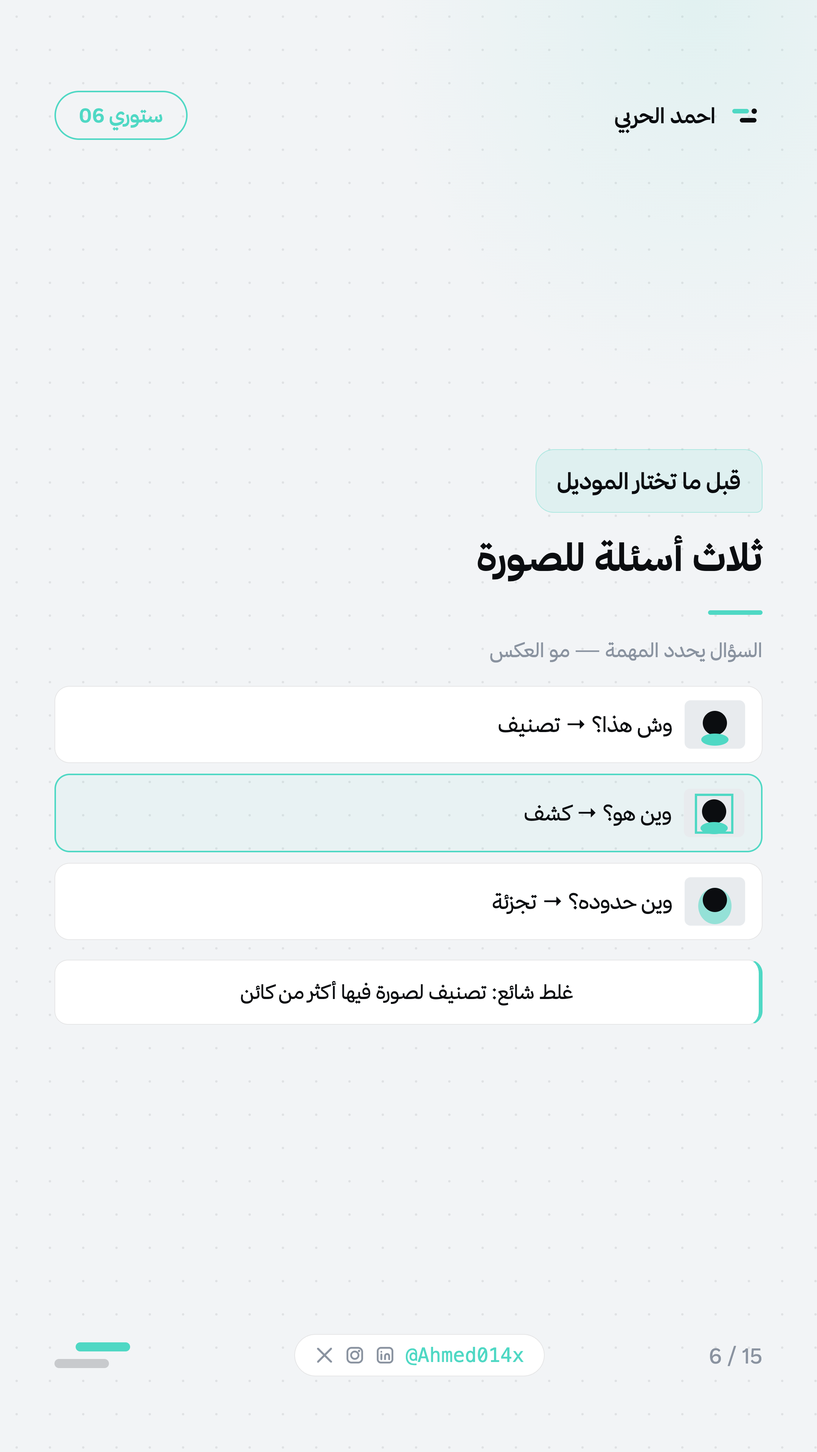
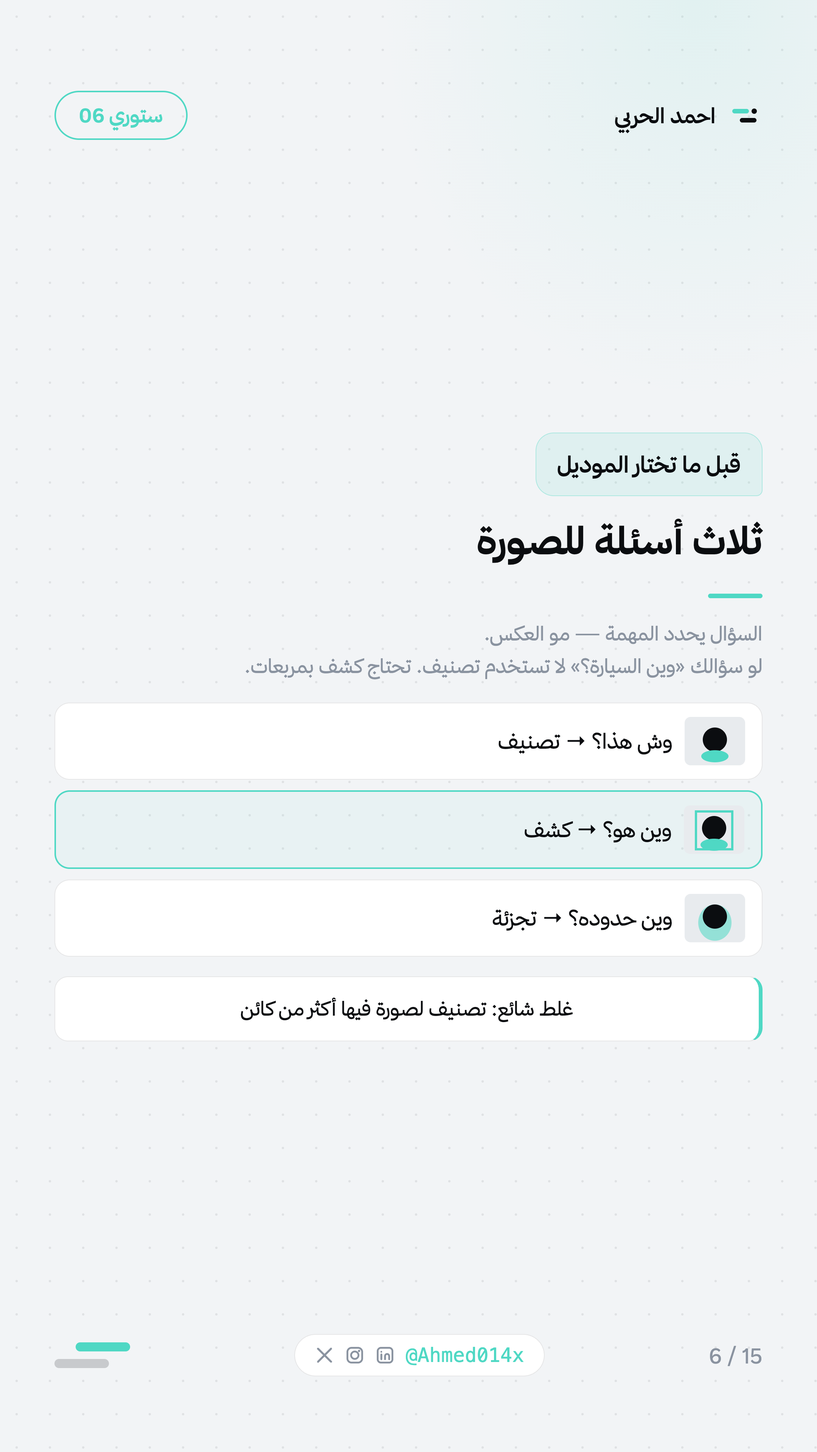
Enhance HTML content in the brand package for the computer vision poster series by updating text styles and improving line heights for better readability. Key changes include refining descriptions to provide clearer context and enhancing the overall visual presentation of the content.

diff --git a/brand-package/html/ستوريات-الرؤية-الحاسوبية.html b/brand-package/html/ستوريات-الرؤية-الحاسوبية.html
@@ -26,7 +26,7 @@ body{margin:0;background:#e8ebee;font-family:'Thmanyah Sans',sans-serif}
     <div style="align-self:flex-start;max-width:92%;background:rgba(79,216,196,.12);border:1.5px solid rgba(79,216,196,.35);border-radius:24px 24px 8px 24px;padding:22px 28px;font-size:30px;font-weight:600;color:#0b0d10">تستخدمها كل يوم</div>
     <div style="font-size:54px;font-weight:700;color:#0b0d10;line-height:1.3">الكاميرا صارت دماغ</div>
     <div style="width:72px;height:6px;border-radius:4px;background:#4fd8c4;margin-top:12px"></div>
-    <div style="font-size:26px;color:#8a93a0;line-height:1.6">مو درس نظري — في جيبك الآن</div>
+    <div style="font-size:26px;color:#8a93a0;line-height:1.65">مو درس نظري — في جيبك الآن.<br/>تفتح الجوال بوجهك، البوابة تقرأ اللوحة، سناب يلزق فلتر. هذا كله نموذج رؤية شغّال.</div>
     <div style="display:flex;flex-direction:column;gap:14px">
       <div style="background:#ffffff;border:1px solid rgba(11,13,16,.10);border-radius:20px;padding:20px 24px;display:flex;align-items:center;gap:18px">
         <svg width="72" height="72" viewBox="0 0 72 72"><circle cx="36" cy="28" r="16" fill="#0b0d10"/><rect x="20" y="46" width="32" height="18" rx="8" fill="#4fd8c4"/><rect x="14" y="8" width="44" height="56" rx="10" fill="none" stroke="#4fd8c4" stroke-width="3"/></svg>
@@ -59,7 +59,7 @@ body{margin:0;background:#e8ebee;font-family:'Thmanyah Sans',sans-serif}
     <div style="align-self:flex-start;max-width:92%;background:rgba(79,216,196,.12);border:1.5px solid rgba(79,216,196,.35);border-radius:24px 24px 8px 24px;padding:22px 28px;font-size:30px;font-weight:600;color:#0b0d10">الجهاز ما فيه وجه</div>
     <div style="font-size:52px;font-weight:700;color:#0b0d10;line-height:1.3">فيه (255, 0, 0)</div>
     <div style="width:72px;height:6px;border-radius:4px;background:#4fd8c4;margin-top:12px"></div>
-    <div style="font-size:26px;color:#8a93a0;line-height:1.6">بكسل أحمر في العين مجرد ثلاث قيم</div>
+    <div style="font-size:26px;color:#8a93a0;line-height:1.65">بكسل أحمر في العين مجرد ثلاث قيم.<br/>ما فيه صورة داخل الذاكرة. شبكة أرقام، والنموذج يبحث عن نمط متكرر فيها.</div>
     <div style="background:rgba(79,216,196,.06);border:2.5px solid #4fd8c4;border-radius:22px;padding:28px;text-align:center">
       <svg viewBox="0 0 280 180" width="100%" height="160">
         <circle cx="110" cy="90" r="58" fill="#0b0d10"/>
@@ -89,7 +89,7 @@ body{margin:0;background:#e8ebee;font-family:'Thmanyah Sans',sans-serif}
     <div style="align-self:flex-start;max-width:92%;background:rgba(79,216,196,.12);border:1.5px solid rgba(79,216,196,.35);border-radius:24px 24px 8px 24px;padding:22px 28px;font-size:30px;font-weight:600;color:#0b0d10">تخيّله عدسة صغيرة</div>
     <div style="font-size:50px;font-weight:700;color:#0b0d10;line-height:1.3">الفلتر يبرز الحدود</div>
     <div style="width:72px;height:6px;border-radius:4px;background:#4fd8c4;margin-top:12px"></div>
-    <div style="font-size:26px;color:#8a93a0;line-height:1.6">فلتر أفقي ≠ فلتر عمودي — كل واحد يلتقط اتجاهًا</div>
+    <div style="font-size:26px;color:#8a93a0;line-height:1.65">فلتر أفقي ≠ فلتر عمودي — كل واحد يلتقط اتجاهًا.<br/>حاجبك خط أفقي وأنفك خط عمودي. فلتران مختلفان يلتقطان الاتجاهين.</div>
     <div style="display:grid;grid-template-columns:1fr 1fr;gap:14px">
       <div style="background:#ffffff;border:1px solid rgba(11,13,16,.10);border-radius:20px;padding:24px;text-align:center">
         <div style="font-size:26px;font-weight:700;color:#0b0d10;margin-bottom:12px">أفقي — حاجب</div>
@@ -126,7 +126,7 @@ body{margin:0;background:#e8ebee;font-family:'Thmanyah Sans',sans-serif}
     <div style="align-self:flex-start;max-width:92%;background:rgba(79,216,196,.12);border:1.5px solid rgba(79,216,196,.35);border-radius:24px 24px 8px 24px;padding:22px 28px;font-size:30px;font-weight:600;color:#0b0d10">ليش نصغّر الخريطة؟</div>
     <div style="font-size:52px;font-weight:700;color:#0b0d10;line-height:1.3">سرعة + ثبات بسيط</div>
     <div style="width:72px;height:6px;border-radius:4px;background:#4fd8c4;margin-top:12px"></div>
-    <div style="font-size:26px;color:#8a93a0;line-height:1.6">لو الجسم تحرّك بكسلين… Max pooling غالبًا ما يتأثر</div>
+    <div style="font-size:26px;color:#8a93a0;line-height:1.65">لو الكائن تحرّك بكسلين… Max pooling غالبًا ما يتأثر.<br/>التصغير مو مسح للتفاصيل. يبقي أقوى إشارة ويتجاهل ضجيج البكسل.</div>
     <svg viewBox="0 0 920 200" width="100%" height="180" style="background:#ffffff;border-radius:22px;border:1px solid rgba(11,13,16,.10)">
       <g font-size="22" font-weight="700" font-family="Thmanyah Sans" text-anchor="middle">
         <rect x="80" y="36" width="70" height="70" fill="rgba(79,216,196,.2)" stroke="#4fd8c4" stroke-width="2.5"/><text x="115" y="80" fill="#0b0d10">1</text>
@@ -158,7 +158,7 @@ body{margin:0;background:#e8ebee;font-family:'Thmanyah Sans',sans-serif}
     <div style="align-self:flex-start;max-width:92%;background:rgba(79,216,196,.12);border:1.5px solid rgba(79,216,196,.35);border-radius:24px 24px 8px 24px;padding:22px 28px;font-size:30px;font-weight:600;color:#0b0d10">مثال الوجه</div>
     <div style="font-size:46px;font-weight:700;color:#0b0d10;line-height:1.3">الأولى حافة — العاشرة وجه</div>
     <div style="width:72px;height:6px;border-radius:4px;background:#4fd8c4;margin-top:12px"></div>
-    <div style="font-size:26px;color:#8a93a0;line-height:1.6">كل طبقة تشوف مساحة أكبر من اللي قبلها</div>
+    <div style="font-size:26px;color:#8a93a0;line-height:1.65">كل طبقة تشوف مساحة أكبر من اللي قبلها.<br/>الطبقة الأولى ما تعرف وش الوجه. تشوف تغيّر إضاءة على حافة، وبعد عشر طبقات يتجمّع المفهوم.</div>
     <div style="display:flex;flex-direction:column;gap:12px">
       <div style="background:#ffffff;border:1px solid rgba(11,13,16,.10);border-radius:18px;padding:20px 24px;display:flex;align-items:center;gap:16px">
         <svg width="56" height="56" viewBox="0 0 56 56"><path d="M10 40 L28 14 L46 40" fill="none" stroke="#4fd8c4" stroke-width="5" stroke-linecap="round"/></svg>
@@ -191,7 +191,7 @@ body{margin:0;background:#e8ebee;font-family:'Thmanyah Sans',sans-serif}
     <div style="align-self:flex-start;max-width:92%;background:rgba(79,216,196,.12);border:1.5px solid rgba(79,216,196,.35);border-radius:24px 24px 8px 24px;padding:22px 28px;font-size:30px;font-weight:600;color:#0b0d10">قبل ما تختار الموديل</div>
     <div style="font-size:50px;font-weight:700;color:#0b0d10;line-height:1.3">ثلاث أسئلة للصورة</div>
     <div style="width:72px;height:6px;border-radius:4px;background:#4fd8c4;margin-top:12px"></div>
-    <div style="font-size:26px;color:#8a93a0;line-height:1.6">السؤال يحدد المهمة — مو العكس</div>
+    <div style="font-size:26px;color:#8a93a0;line-height:1.65">السؤال يحدد المهمة — مو العكس.<br/>لو سؤالك «وين السيارة؟» لا تستخدم تصنيف. تحتاج كشف بمربعات.</div>
     <div style="display:flex;flex-direction:column;gap:14px">
       <div style="background:#ffffff;border:1px solid rgba(11,13,16,.10);border-radius:20px;padding:18px 22px;display:flex;align-items:center;gap:16px">
         <svg width="80" height="64" viewBox="0 0 80 64"><rect width="80" height="64" rx="8" fill="#e8ebee"/><circle cx="40" cy="30" r="16" fill="#0b0d10"/><ellipse cx="40" cy="52" rx="18" ry="8" fill="#4fd8c4"/></svg>
@@ -224,7 +224,7 @@ body{margin:0;background:#e8ebee;font-family:'Thmanyah Sans',sans-serif}
     <div style="align-self:flex-start;max-width:92%;background:rgba(79,216,196,.12);border:1.5px solid rgba(79,216,196,.35);border-radius:24px 24px 8px 24px;padding:22px 28px;font-size:30px;font-weight:600;color:#0b0d10">غلط شائع</div>
     <div style="font-size:48px;font-weight:700;color:#0b0d10;line-height:1.3">«سيارة» ≠ مربع حول كل سيارة</div>
     <div style="width:72px;height:6px;border-radius:4px;background:#4fd8c4;margin-top:12px"></div>
-    <div style="font-size:26px;color:#8a93a0;line-height:1.6">التصنيف يقول النوع. الشارع يحتاج مواقع.</div>
+    <div style="font-size:26px;color:#8a93a0;line-height:1.65">التصنيف يقول النوع. الشارع يحتاج مواقع.<br/>تسمية واحدة للصورة كلها. الشارع فيه سيارات وأشخاص — كل واحد يحتاج مربعه.</div>
     <div style="display:grid;grid-template-columns:1fr 1fr;gap:14px">
       <div style="background:#ffffff;border:1px solid rgba(11,13,16,.10);border-radius:20px;padding:20px;text-align:center">
         <div style="font-size:24px;font-weight:700;color:#0b0d10;margin-bottom:10px">تصنيف</div>
@@ -264,7 +264,7 @@ body{margin:0;background:#e8ebee;font-family:'Thmanyah Sans',sans-serif}
     <div style="align-self:flex-start;max-width:92%;background:rgba(79,216,196,.12);border:1.5px solid rgba(79,216,196,.35);border-radius:24px 24px 8px 24px;padding:22px 28px;font-size:30px;font-weight:600;color:#0b0d10">في الأشعة كل بكسل يهم</div>
     <div style="font-size:50px;font-weight:700;color:#0b0d10;line-height:1.3">الورم مو مربع مرتب</div>
     <div style="width:72px;height:6px;border-radius:4px;background:#4fd8c4;margin-top:12px"></div>
-    <div style="font-size:26px;color:#8a93a0;line-height:1.6">الشكل غير منتظم — المربع يبالغ أو ينقص</div>
+    <div style="font-size:26px;color:#8a93a0;line-height:1.65">الشكل غير منتظم — المربع يبالغ أو ينقص.<br/>الورم ما يجي بشكل علبة. القص بالمربع يقص نسيج سليم أو يترك جزءًا مريضًا.</div>
     <svg viewBox="0 0 920 240" width="100%" height="220" style="background:#ffffff;border-radius:22px;border:1px solid rgba(11,13,16,.10)">
       <rect x="80" y="40" width="320" height="160" fill="none" stroke="#8a93a0" stroke-width="3" stroke-dasharray="8 6"/>
       <text x="240" y="220" text-anchor="middle" fill="#8a93a0" font-size="20" font-family="Thmanyah Sans">مربع</text>
@@ -289,7 +289,7 @@ body{margin:0;background:#e8ebee;font-family:'Thmanyah Sans',sans-serif}
     <div style="align-self:flex-start;max-width:92%;background:rgba(79,216,196,.12);border:1.5px solid rgba(79,216,196,.35);border-radius:24px 24px 8px 24px;padding:22px 28px;font-size:30px;font-weight:600;color:#0b0d10">نصيحة ذهبية</div>
     <div style="font-size:48px;font-weight:700;color:#0b0d10;line-height:1.3">لا تدرب من الصفر</div>
     <div style="width:72px;height:6px;border-radius:4px;background:#4fd8c4;margin-top:12px"></div>
-    <div style="font-size:26px;color:#8a93a0;line-height:1.6">الموديل شاف ملايين الصور قبلك على ImageNet</div>
+    <div style="font-size:26px;color:#8a93a0;line-height:1.65">الموديل شاف ملايين الصور قبلك على ImageNet.<br/>الأوزان شافت قطط وسيارات ووجوه قبل مشروعك. استفد منها بدل التدريب من صفر.</div>
     <div style="background:rgba(79,216,196,.06);border:2.5px solid #4fd8c4;border-radius:22px;padding:28px;text-align:center">
       <svg viewBox="0 0 360 90" width="100%" height="80">
         <circle cx="70" cy="40" r="22" fill="#0b0d10"/>
@@ -319,7 +319,7 @@ body{margin:0;background:#e8ebee;font-family:'Thmanyah Sans',sans-serif}
     <div style="align-self:flex-start;max-width:92%;background:rgba(79,216,196,.12);border:1.5px solid rgba(79,216,196,.35);border-radius:24px 24px 8px 24px;padding:22px 28px;font-size:30px;font-weight:600;color:#0b0d10">حيلة بياناتك القليلة</div>
     <div style="font-size:50px;font-weight:700;color:#0b0d10;line-height:1.3">صورة واحدة تصير أربع</div>
     <div style="width:72px;height:6px;border-radius:4px;background:#4fd8c4;margin-top:12px"></div>
-    <div style="font-size:26px;color:#8a93a0;line-height:1.6">قلب · قص · إضاءة · دوران — بدون تصوير جديد</div>
+    <div style="font-size:26px;color:#8a93a0;line-height:1.65">قلب · إضاءة · دوران — بدون تصوير جديد.<br/>أربع نسخ من نفس القطة: أصل، مقلوبة، أغمق، مائلة. يتعلم الشكل مو الخلفية.</div>
     <div style="display:grid;grid-template-columns:repeat(4,1fr);gap:12px">
       <svg viewBox="0 0 120 120" width="100%" height="110" style="background:#e8ebee;border-radius:16px;border:1px solid rgba(11,13,16,.10)">
         <rect width="120" height="50" fill="#8a93a0"/><circle cx="60" cy="68" r="22" fill="#0b0d10"/><ellipse cx="60" cy="98" rx="28" ry="12" fill="#4fd8c4"/>
@@ -352,7 +352,7 @@ body{margin:0;background:#e8ebee;font-family:'Thmanyah Sans',sans-serif}
     <div style="align-self:flex-start;max-width:92%;background:rgba(79,216,196,.12);border:1.5px solid rgba(79,216,196,.35);border-radius:24px 24px 8px 24px;padding:22px 28px;font-size:30px;font-weight:600;color:#0b0d10">السيارة ما تنتظر دقيقة</div>
     <div style="font-size:52px;font-weight:700;color:#0b0d10;line-height:1.3">30 إطار في الثانية</div>
     <div style="width:72px;height:6px;border-radius:4px;background:#4fd8c4;margin-top:12px"></div>
-    <div style="font-size:26px;color:#8a93a0;line-height:1.6">كاميرا الطريق تحتاج كشفًا لحظيًا لا تقريرًا ليليًا</div>
+    <div style="font-size:26px;color:#8a93a0;line-height:1.65">كاميرا الطريق تحتاج كشفًا لحظيًا لا تقريرًا ليليًا.<br/>لو الكشف يأخذ ثانية، السيارة تعدّت. YOLO يقرر على كل إطار فورًا.</div>
     <div style="background:rgba(79,216,196,.06);border:2.5px solid #4fd8c4;border-radius:22px;padding:28px;text-align:center">
       <svg viewBox="0 0 320 120" width="100%" height="110">
         <rect x="40" y="20" width="240" height="80" rx="12" fill="#e8ebee"/>
@@ -382,7 +382,7 @@ body{margin:0;background:#e8ebee;font-family:'Thmanyah Sans',sans-serif}
     <div style="align-self:flex-start;max-width:92%;background:rgba(79,216,196,.12);border:1.5px solid rgba(79,216,196,.35);border-radius:24px 24px 8px 24px;padding:22px 28px;font-size:30px;font-weight:600;color:#0b0d10">جسر لسلسلة NLP</div>
     <div style="font-size:48px;font-weight:700;color:#0b0d10;line-height:1.3">ViT يقرأ مربعات كجمل</div>
     <div style="width:72px;height:6px;border-radius:4px;background:#4fd8c4;margin-top:12px"></div>
-    <div style="font-size:26px;color:#8a93a0;line-height:1.6">الكلمة في النص = الرقعة في الصورة</div>
+    <div style="font-size:26px;color:#8a93a0;line-height:1.65">الكلمة في النص = الرقعة في الصورة.<br/>NLP يقطع جملة. ViT يقطع صورة. نفس الانتباه — مدخل مختلف.</div>
     <div style="display:grid;grid-template-columns:1fr 1fr;gap:14px">
       <div style="background:#ffffff;border:1px solid rgba(11,13,16,.10);border-radius:20px;padding:24px;text-align:center">
         <div style="font-size:28px;font-weight:700;color:#0b0d10">NLP</div>
@@ -425,7 +425,7 @@ body{margin:0;background:#e8ebee;font-family:'Thmanyah Sans',sans-serif}
     <div style="align-self:flex-start;max-width:92%;background:rgba(79,216,196,.12);border:1.5px solid rgba(79,216,196,.35);border-radius:24px 24px 8px 24px;padding:22px 28px;font-size:30px;font-weight:600;color:#0b0d10">الدقة في النهار تخدع</div>
     <div style="font-size:50px;font-weight:700;color:#0b0d10;line-height:1.3">يفشل بالليل والغبار</div>
     <div style="width:72px;height:6px;border-radius:4px;background:#4fd8c4;margin-top:12px"></div>
-    <div style="font-size:26px;color:#8a93a0;line-height:1.6">موديل مواقف درّب في النهار… يتعثر في الضباب والعواصف</div>
+    <div style="font-size:26px;color:#8a93a0;line-height:1.65">موديل مواقف درّب في النهار… يتعثر في الضباب والعواصف.<br/>الغبار والضباب يغيّران البكسلات. لو ما درّبت عليها، الدقة في النهار تخدع.</div>
     <div style="display:flex;flex-direction:column;gap:14px">
       <div style="background:rgba(79,216,196,.06);border:2.5px solid #4fd8c4;border-radius:20px;padding:22px 24px;display:flex;align-items:center;gap:16px">
         <svg width="56" height="56" viewBox="0 0 56 56"><circle cx="28" cy="28" r="10" fill="#f2f4f6"/><path d="M8 28h8 M40 28h8 M28 8v8 M28 40v8" stroke="#4fd8c4" stroke-width="3"/></svg>
@@ -458,7 +458,7 @@ body{margin:0;background:#e8ebee;font-family:'Thmanyah Sans',sans-serif}
     <div style="align-self:flex-start;max-width:92%;background:rgba(79,216,196,.12);border:1.5px solid rgba(79,216,196,.35);border-radius:24px 24px 8px 24px;padding:22px 28px;font-size:30px;font-weight:600;color:#0b0d10">تجنّبها من أول أسبوع</div>
     <div style="font-size:50px;font-weight:700;color:#0b0d10;line-height:1.3">3 أخطاء للمبتدئ</div>
     <div style="width:72px;height:6px;border-radius:4px;background:#4fd8c4;margin-top:12px"></div>
-    <div style="font-size:26px;color:#8a93a0;line-height:1.6">أكثر من يوقف المشاريع الصغيرة</div>
+    <div style="font-size:26px;color:#8a93a0;line-height:1.65">أكثر من يوقف المشاريع الصغيرة.<br/>أصلح البيانات والمقياس والإضاءة قبل ما تلوم المعمارية.</div>
     <div style="display:flex;flex-direction:column;gap:14px">
       <div style="background:#ffffff;border:1px solid rgba(11,13,16,.10);border-radius:18px;padding:24px 28px;display:flex;align-items:center;gap:18px"><span style="font-family:'Thmanyah Sans',sans-serif;font-weight:700;color:#4fd8c4;font-size:26px">01</span><span style="font-size:28px;font-weight:600;color:#0b0d10">بيانات قليلة بلا تنويع</span></div>
       <div style="background:rgba(79,216,196,.06);border:2.5px solid #4fd8c4;border-radius:18px;padding:24px 28px;display:flex;align-items:center;gap:18px"><span style="font-family:'Thmanyah Sans',sans-serif;font-weight:700;color:#4fd8c4;font-size:26px">02</span><span style="font-size:28px;font-weight:600;color:#4fd8c4">دقة تصنيف لمهمة كشف</span></div>
@@ -482,7 +482,7 @@ body{margin:0;background:#e8ebee;font-family:'Thmanyah Sans',sans-serif}
     <div style="align-self:flex-start;max-width:92%;background:rgba(79,216,196,.12);border:1.5px solid rgba(79,216,196,.35);border-radius:24px 24px 8px 24px;padding:22px 28px;font-size:30px;font-weight:600;color:#0b0d10">سؤالك في التعليق</div>
     <div style="font-size:48px;font-weight:700;color:#0b0d10;line-height:1.3;text-align:center">CNN ولا ViT؟</div>
     <div style="width:72px;height:6px;border-radius:4px;background:#4fd8c4;margin:0 auto"></div>
-    <div style="font-size:28px;color:#8a93a0;text-align:center;line-height:1.6">وش تفضّل لمشروعك: سرعة الالتفاف ولا انتباه الرقع؟</div>
+    <div style="font-size:26px;color:#8a93a0;text-align:center;line-height:1.65">وش تفضّل لمشروعك: سرعة الالتفاف ولا انتباه الرقع؟<br/>اكتب في التعليق. السلسلة الجاية على الأكثر طلبًا.</div>
     <div style="background:#ffffff;border:1px solid rgba(11,13,16,.10);border-right:5px solid #4fd8c4;border-radius:18px;padding:22px 26px;font-size:26px;color:#0b0d10;text-align:center;line-height:1.55">اكتب رأيك — وأكمّل السلسلة على حسب الأكثر طلبًا</div>
     <div style="display:flex;justify-content:center;margin-top:12px">
       <div style="padding:18px 40px;background:#4fd8c4;color:#0b0d10;font-weight:700;font-size:28px;border-radius:999px">تابعني @Ahmed014x</div>

diff --git a/brand-package/html/سلسلة-الرؤية-الحاسوبية.html b/brand-package/html/سلسلة-الرؤية-الحاسوبية.html
@@ -26,8 +26,8 @@ body{margin:0;background:#e8ebee;font-family:'Thmanyah Sans',sans-serif}
   <div style="flex:1;display:flex;flex-direction:column;justify-content:center;gap:28px">
     <div style="font-size:58px;font-weight:700;color:#0b0d10;line-height:1.3">وش يعني الرؤية الحاسوبية؟</div>
     <div style="width:72px;height:6px;border-radius:4px;background:#4fd8c4;margin-top:14px"></div>
-    <div style="font-size:28px;color:#8a93a0;line-height:1.7;max-width:860px">نخلي الآلة <span style="color:#4fd8c4;font-weight:600">تفهم الصورة</span> — تصنيف، كشف، وتجزئة من بكسلات خام.</div>
-    <svg viewBox="0 0 920 300" width="100%" height="270">
+    <div style="font-size:26px;color:#8a93a0;line-height:1.65;max-width:860px">نخلي الآلة <span style="color:#4fd8c4;font-weight:600">تفهم الصورة</span> — تصنيف، كشف، وتجزئة من بكسلات خام.<br/>مو تصوير فقط. من نفس الإطار يطلع تسمية أو مربع أو حدود — تستخدمها يوميًا بدون ما تحس.</div>
+    <svg viewBox="0 0 920 300" width="100%" height="240">
       <rect x="620" y="20" width="260" height="220" rx="22" fill="#ffffff" stroke="rgba(11,13,16,.12)" stroke-width="2.5"/>
       <rect x="640" y="40" width="220" height="150" rx="14" fill="#e8ebee"/>
       <rect x="640" y="40" width="220" height="70" fill="#8a93a0"/>
@@ -74,10 +74,10 @@ body{margin:0;background:#e8ebee;font-family:'Thmanyah Sans',sans-serif}
   <div style="margin-top:32px">
     <div style="font-size:60px;font-weight:700;color:#0b0d10;line-height:1.3">من صورة إلى أرقام</div>
     <div style="width:72px;height:6px;border-radius:4px;background:#4fd8c4;margin-top:14px"></div>
-    <div style="font-size:28px;color:#8a93a0;line-height:1.7;margin-top:10px">الصورة شبكة بكسلات — كل نقطة ثلاثة أرقام: أحمر · أخضر · أزرق.</div>
+    <div style="font-size:26px;color:#8a93a0;line-height:1.65;margin-top:10px">الصورة شبكة بكسلات — كل نقطة ثلاثة أرقام: أحمر · أخضر · أزرق.<br/>الشبكة = ارتفاع × عرض × 3 قنوات RGB. تغيّر حجم الصورة = تتغيّر كل الأرقام.</div>
   </div>
   <div style="flex:1;display:flex;flex-direction:column;justify-content:center;gap:20px">
-    <svg viewBox="0 0 920 280" width="100%" height="250">
+    <svg viewBox="0 0 920 280" width="100%" height="220">
       <rect x="40" y="20" width="840" height="240" rx="20" fill="#ffffff" stroke="rgba(11,13,16,.12)" stroke-width="2.5"/>
       <defs><clipPath id="pxclip"><rect x="70" y="40" width="280" height="160" rx="8"/></clipPath></defs>
       <g clip-path="url(#pxclip)">
@@ -122,10 +122,10 @@ body{margin:0;background:#e8ebee;font-family:'Thmanyah Sans',sans-serif}
   <div style="margin-top:32px">
     <div style="font-size:52px;font-weight:700;color:#0b0d10;line-height:1.3">الالتفاف Convolution</div>
     <div style="width:72px;height:6px;border-radius:4px;background:#4fd8c4;margin-top:14px"></div>
-    <div style="font-size:28px;color:#8a93a0;line-height:1.7;margin-top:10px">فلتر 3×3 يمر على الصورة ويضرب الأرقام — الناتج يبرز الحواف والأنماط.</div>
+    <div style="font-size:26px;color:#8a93a0;line-height:1.65;margin-top:10px">فلتر 3×3 يمر على الصورة ويضرب الأرقام — الناتج يبرز الحواف والأنماط.<br/>الفلتر أوزان صغيرة تتكرر فوق الصورة. نفس نمط الحافة يُبحث عنه في كل موضع.</div>
   </div>
   <div style="flex:1;display:flex;flex-direction:column;justify-content:center;gap:18px">
-    <svg viewBox="0 0 920 300" width="100%" height="270">
+    <svg viewBox="0 0 920 300" width="100%" height="240">
       <text x="200" y="36" text-anchor="middle" fill="#8a93a0" font-size="22" font-family="Thmanyah Sans">صورة قطة</text>
       <defs><clipPath id="convclip"><rect x="70" y="60" width="208" height="208" rx="4"/></clipPath></defs>
       <g clip-path="url(#convclip)">
@@ -186,10 +186,10 @@ body{margin:0;background:#e8ebee;font-family:'Thmanyah Sans',sans-serif}
   <div style="margin-top:32px">
     <div style="font-size:52px;font-weight:700;color:#0b0d10;line-height:1.3">التجميع Pooling</div>
     <div style="width:72px;height:6px;border-radius:4px;background:#4fd8c4;margin-top:14px"></div>
-    <div style="font-size:28px;color:#8a93a0;line-height:1.7;margin-top:10px">Max pooling يأخذ أعلى قيمة في نافذة 2×2 — الخريطة تصغر والإشارة القوية تبقى.</div>
+    <div style="font-size:26px;color:#8a93a0;line-height:1.65;margin-top:10px">Max pooling يأخذ أعلى قيمة في نافذة 2×2 — الخريطة تصغر والإشارة القوية تبقى.<br/>النافذة تمشي بخطوة 2. أربعة أرقام تصير رقمًا واحدًا: الأكبر.</div>
   </div>
   <div style="flex:1;display:flex;flex-direction:column;justify-content:center;gap:18px">
-    <svg viewBox="0 0 920 280" width="100%" height="250">
+    <svg viewBox="0 0 920 280" width="100%" height="220">
       <text x="210" y="28" text-anchor="middle" fill="#8a93a0" font-size="20" font-family="Thmanyah Sans">4×4</text>
       <g font-size="20" font-weight="700" font-family="Thmanyah Sans" text-anchor="middle">
         <rect x="70" y="42" width="52" height="52" fill="rgba(79,216,196,.2)" stroke="#4fd8c4" stroke-width="2.5"/><text x="96" y="74" fill="#0b0d10">1</text>
@@ -240,10 +240,10 @@ body{margin:0;background:#e8ebee;font-family:'Thmanyah Sans',sans-serif}
   <div style="margin-top:28px">
     <div style="font-size:52px;font-weight:700;color:#0b0d10;line-height:1.3">شبكة الالتفاف CNN</div>
     <div style="width:72px;height:6px;border-radius:4px;background:#4fd8c4;margin-top:14px"></div>
-    <div style="font-size:28px;color:#8a93a0;line-height:1.7;margin-top:10px">طبقات تتكدس: الحواف الصغيرة تصير أشكالًا ثم أشياء كاملة.</div>
+    <div style="font-size:26px;color:#8a93a0;line-height:1.65;margin-top:10px">طبقات تتكدس: الحواف الصغيرة تصير أشكالًا ثم أشياء كاملة.<br/>كل طبقة تبني على اللي قبلها. الحافة تصير عين، والعين تصير وجه.</div>
   </div>
   <div style="flex:1;display:flex;flex-direction:column;justify-content:center;gap:16px">
-    <svg viewBox="0 0 920 280" width="100%" height="250">
+    <svg viewBox="0 0 920 280" width="100%" height="220">
       <rect x="40" y="70" width="180" height="150" rx="18" fill="#ffffff" stroke="rgba(11,13,16,.12)" stroke-width="2.5"/>
       <path d="M70 150 L110 90 L160 150" fill="none" stroke="#4fd8c4" stroke-width="6" stroke-linecap="round" stroke-linejoin="round"/>
       <text x="130" y="200" text-anchor="middle" fill="#0b0d10" font-size="20" font-weight="700" font-family="Thmanyah Sans">حواف</text>
@@ -280,7 +280,7 @@ body{margin:0;background:#e8ebee;font-family:'Thmanyah Sans',sans-serif}
   <div style="margin-top:28px">
     <div style="font-size:52px;font-weight:700;color:#0b0d10;line-height:1.3">مهام CV الأساسية</div>
     <div style="width:72px;height:6px;border-radius:4px;background:#4fd8c4;margin-top:14px"></div>
-    <div style="font-size:28px;color:#8a93a0;line-height:1.7;margin-top:10px">ثلاث مخرجات مختلفة من نفس الصورة — حسب سؤالك.</div>
+    <div style="font-size:26px;color:#8a93a0;line-height:1.65;margin-top:10px">ثلاث مخرجات مختلفة من نفس الصورة — حسب سؤالك.<br/>لا تخلط المهام. اختيار المهمة غلط يضيّع أسابيع تدريب على بيانات بمسميات خطأ.</div>
   </div>
   <div style="flex:1;display:flex;flex-direction:column;justify-content:center;gap:16px">
     <div style="display:grid;grid-template-columns:1fr 1fr 1fr;gap:16px">
@@ -342,10 +342,10 @@ body{margin:0;background:#e8ebee;font-family:'Thmanyah Sans',sans-serif}
   <div style="margin-top:28px">
     <div style="font-size:52px;font-weight:700;color:#0b0d10;line-height:1.3">الكشف Detection</div>
     <div style="width:72px;height:6px;border-radius:4px;background:#4fd8c4;margin-top:14px"></div>
-    <div style="font-size:28px;color:#8a93a0;line-height:1.7;margin-top:10px">لكل جسم: مربع (Bounding box) + فئة + درجة ثقة.</div>
+    <div style="font-size:26px;color:#8a93a0;line-height:1.65;margin-top:10px">لكل كائن: مربع (Bounding box) + فئة + درجة ثقة.<br/>الصندوق يحدد الموقع والحجم. الثقة تقول كم النموذج متأكد.</div>
   </div>
   <div style="flex:1;display:flex;flex-direction:column;justify-content:center;gap:18px">
-    <svg viewBox="0 0 920 300" width="100%" height="270">
+    <svg viewBox="0 0 920 300" width="100%" height="240">
       <rect x="80" y="20" width="760" height="260" rx="22" fill="#ffffff" stroke="rgba(11,13,16,.12)" stroke-width="2.5"/>
       <rect x="80" y="20" width="760" height="90" fill="#8a93a0" opacity=".25"/>
       <rect x="80" y="200" width="760" height="80" fill="#e8ebee"/>
@@ -387,7 +387,7 @@ body{margin:0;background:#e8ebee;font-family:'Thmanyah Sans',sans-serif}
   <div style="margin-top:28px">
     <div style="font-size:48px;font-weight:700;color:#0b0d10;line-height:1.3">التجزئة Segmentation</div>
     <div style="width:72px;height:6px;border-radius:4px;background:#4fd8c4;margin-top:14px"></div>
-    <div style="font-size:28px;color:#8a93a0;line-height:1.7;margin-top:10px">كل بكسل له فئة — أدق من المربع لأنه يتبع الشكل الحقيقي.</div>
+    <div style="font-size:26px;color:#8a93a0;line-height:1.65;margin-top:10px">كل بكسل له فئة — أدق من المربع لأنه يتبع الشكل الحقيقي.<br/>الدلالي يلوّن الفئة كلها بلون واحد. الحالة تفصل كل سيارة حتى لو نفس النوع.</div>
   </div>
   <div style="flex:1;display:flex;flex-direction:column;justify-content:center;gap:16px">
     <div style="display:grid;grid-template-columns:1fr 1fr;gap:18px">
@@ -438,7 +438,7 @@ body{margin:0;background:#e8ebee;font-family:'Thmanyah Sans',sans-serif}
   <div style="margin-top:28px">
     <div style="font-size:48px;font-weight:700;color:#0b0d10;line-height:1.3">نقل التعلّم Transfer</div>
     <div style="width:72px;height:6px;border-radius:4px;background:#4fd8c4;margin-top:14px"></div>
-    <div style="font-size:28px;color:#8a93a0;line-height:1.7;margin-top:10px">نموذج مدرب على ImageNet يعرف الحواف والأشكال — Fine-tune على بياناتك.</div>
+    <div style="font-size:26px;color:#8a93a0;line-height:1.65;margin-top:10px">نموذج مدرب على ImageNet يعرف الحواف والأشكال — Fine-tune على بياناتك.<br/>ما تحتاج مليون صورة من الصفر. الأوزان الجاهزة تعطيك حواف وأشكال من أول يوم.</div>
   </div>
   <div style="flex:1;display:flex;flex-direction:column;justify-content:center;gap:16px">
     <svg viewBox="0 0 920 240" width="100%" height="220">
@@ -482,7 +482,7 @@ body{margin:0;background:#e8ebee;font-family:'Thmanyah Sans',sans-serif}
   <div style="margin-top:28px">
     <div style="font-size:48px;font-weight:700;color:#0b0d10;line-height:1.3">زيادة البيانات</div>
     <div style="width:72px;height:6px;border-radius:4px;background:#4fd8c4;margin-top:14px"></div>
-    <div style="font-size:28px;color:#8a93a0;line-height:1.7;margin-top:10px">Augmentation يولّد نسخًا من نفس الصورة حتى لا يحفظ الخلفية.</div>
+    <div style="font-size:26px;color:#8a93a0;line-height:1.65;margin-top:10px">Augmentation يولّد نسخًا من نفس الصورة حتى لا يحفظ الخلفية.<br/>لو كل الصور من نفس الاستوديو، النموذج يحفظ الخلفية. نوّع الإضاءة والزاوية.</div>
   </div>
   <div style="flex:1;display:flex;flex-direction:column;justify-content:center;gap:16px">
     <div style="display:grid;grid-template-columns:1fr 1fr 1fr 1fr;gap:14px">
@@ -532,7 +532,7 @@ body{margin:0;background:#e8ebee;font-family:'Thmanyah Sans',sans-serif}
   <div style="margin-top:28px">
     <div style="font-size:52px;font-weight:700;color:#0b0d10;line-height:1.3">الكشف اللحظي YOLO</div>
     <div style="width:72px;height:6px;border-radius:4px;background:#4fd8c4;margin-top:14px"></div>
-    <div style="font-size:28px;color:#8a93a0;line-height:1.7;margin-top:10px">مسار واحد: الصورة تدخل… الصناديق تخرج مباشرة بدون مرحلة اقتراح منفصلة.</div>
+    <div style="font-size:26px;color:#8a93a0;line-height:1.65;margin-top:10px">مسار واحد: الصورة تدخل… الصناديق تخرج مباشرة بدون مرحلة اقتراح منفصلة.<br/>ما في مرحلتين (اقتراح ثم تصنيف). نظرة واحدة على الإطار كله تطلع الصناديق.</div>
   </div>
   <div style="flex:1;display:flex;flex-direction:column;justify-content:center;gap:16px">
     <svg viewBox="0 0 920 220" width="100%" height="200">
@@ -576,10 +576,10 @@ body{margin:0;background:#e8ebee;font-family:'Thmanyah Sans',sans-serif}
   <div style="margin-top:28px">
     <div style="font-size:48px;font-weight:700;color:#0b0d10;line-height:1.3">Vision Transformer</div>
     <div style="width:72px;height:6px;border-radius:4px;background:#4fd8c4;margin-top:14px"></div>
-    <div style="font-size:28px;color:#8a93a0;line-height:1.7;margin-top:10px">الصورة تُقطَّع إلى رقع — كل رقعة = كلمة في جملة الصورة.</div>
+    <div style="font-size:26px;color:#8a93a0;line-height:1.65;margin-top:10px">الصورة تُقطَّع إلى رقع — كل رقعة = كلمة في جملة الصورة.<br/>الانتباه يربط الرقع البعيدة. الأذن والذيل يتواصلان حتى لو تباعدوا في الصورة.</div>
   </div>
   <div style="flex:1;display:flex;flex-direction:column;justify-content:center;gap:16px">
-    <svg viewBox="0 0 920 280" width="100%" height="250">
+    <svg viewBox="0 0 920 280" width="100%" height="220">
       <defs>
         <clipPath id="vitclip"><rect x="40" y="40" width="210" height="210" rx="8"/></clipPath>
       </defs>
@@ -623,7 +623,7 @@ body{margin:0;background:#e8ebee;font-family:'Thmanyah Sans',sans-serif}
   <div style="margin-top:32px">
     <div style="font-size:58px;font-weight:700;color:#0b0d10;line-height:1.3">تحديات الرؤية</div>
     <div style="width:72px;height:6px;border-radius:4px;background:#4fd8c4;margin-top:14px"></div>
-    <div style="font-size:28px;color:#8a93a0;line-height:1.7;margin-top:10px">المختبر سهل — الشارع والإضاءة والزاوية تغيّر كل شيء.</div>
+    <div style="font-size:26px;color:#8a93a0;line-height:1.65;margin-top:10px">المختبر سهل — الشارع والإضاءة والزاوية تغيّر كل شيء.<br/>دقة 98٪ في النهار ما تعني شيء بالليل. اختبر على الإضاءة والغبار عندك.</div>
   </div>
   <div style="flex:1;display:flex;flex-direction:column;justify-content:center;gap:14px">
     <div style="background:rgba(79,216,196,.06);border:2.5px solid #4fd8c4;border-radius:20px;padding:22px;display:flex;align-items:center;gap:22px">
@@ -656,7 +656,7 @@ body{margin:0;background:#e8ebee;font-family:'Thmanyah Sans',sans-serif}
   <div style="margin-top:28px">
     <div style="font-size:56px;font-weight:700;color:#0b0d10;line-height:1.3">ابدأ صح</div>
     <div style="width:72px;height:6px;border-radius:4px;background:#4fd8c4;margin-top:14px"></div>
-    <div style="font-size:28px;color:#8a93a0;line-height:1.7;margin-top:10px">ثلاث ركائز قبل ما تبني معمارية من الصفر.</div>
+    <div style="font-size:26px;color:#8a93a0;line-height:1.65;margin-top:10px">ثلاث ركائز قبل ما تبني معمارية من الصفر.<br/>المعمارية آخر همّك. البيانات النظيفة والمقياس الصحيح يحددون النجاح.</div>
   </div>
   <div style="flex:1;display:flex;flex-direction:column;justify-content:center;gap:16px">
     <div style="background:#ffffff;border:1px solid rgba(11,13,16,.10);border-radius:18px;padding:26px 28px;display:flex;align-items:center;gap:18px">
@@ -689,7 +689,7 @@ body{margin:0;background:#e8ebee;font-family:'Thmanyah Sans',sans-serif}
   <div style="flex:1;display:flex;flex-direction:column;justify-content:center;gap:28px">
     <div style="font-size:52px;font-weight:700;color:#0b0d10;line-height:1.3;text-align:center">من البكسل إلى CNN وViT</div>
     <div style="width:72px;height:6px;border-radius:4px;background:#4fd8c4;margin:0 auto"></div>
-    <div style="font-size:28px;color:#8a93a0;line-height:1.7;text-align:center">فهمت المسار… ابدأ بتصنيف 200 صورة من بيئتك.</div>
+    <div style="font-size:26px;color:#8a93a0;line-height:1.65;text-align:center">فهمت المسار… ابدأ بتصنيف 200 صورة من بيئتك.<br/>اجمع من نفس الكاميرا اللي بتنشر عليها. بعدين Fine-tune وقيّم بـ mAP.</div>
     <svg viewBox="0 0 900 180" width="100%" height="160">
       <rect x="640" y="40" width="200" height="90" rx="18" fill="#ffffff" stroke="rgba(11,13,16,.12)" stroke-width="2.5"/>
       <text x="740" y="80" text-anchor="middle" fill="#4fd8c4" font-size="22" font-family="Thmanyah Sans" font-weight="700">01</text>
